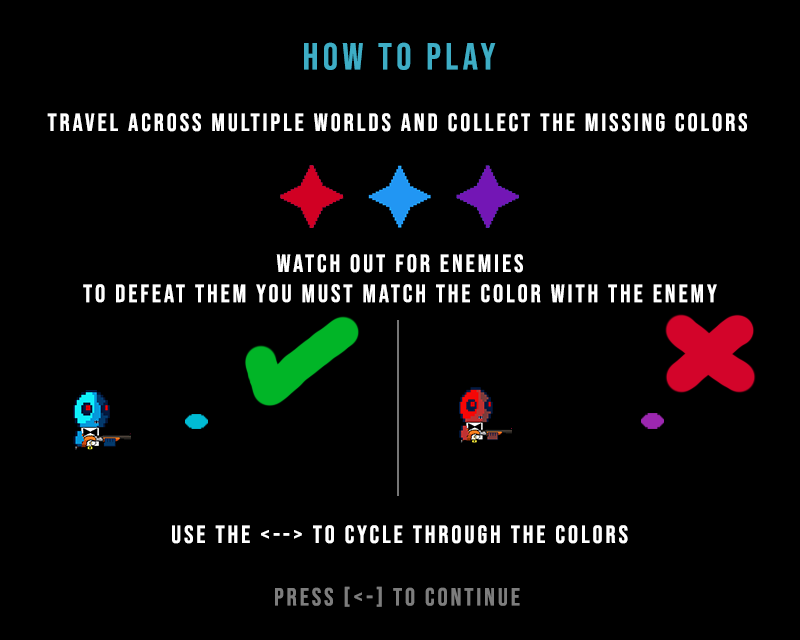
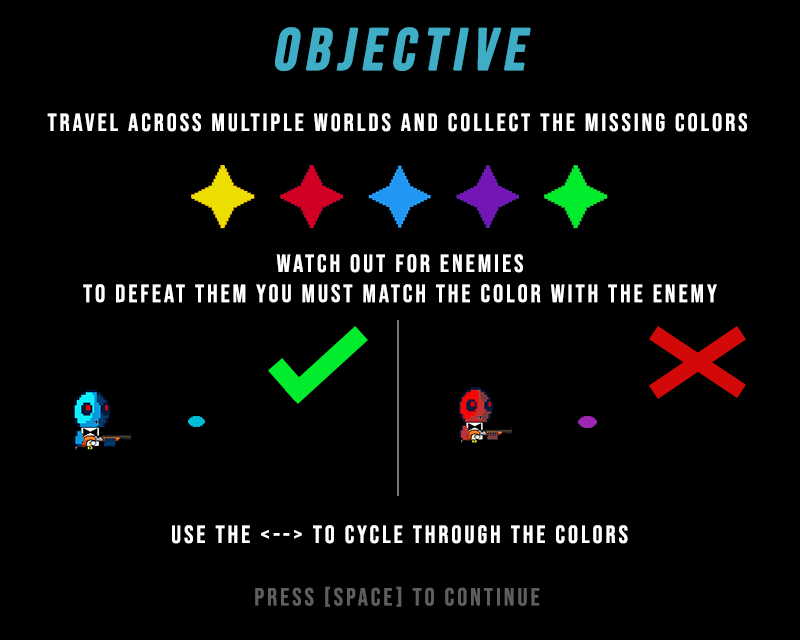
added title screens

diff --git a/src/scenes/Menu.js b/src/scenes/Menu.js
@@ -33,6 +33,8 @@ class Menu extends Phaser.Scene {
         this.load.spritesheet('enemy2', './assets/purpleDrone.png', {frameWidth: 108, frameHeight: 88, startFrame: 0, endFrame: 4});
         this.load.spritesheet('enemy3', './assets/redDrone.png', {frameWidth: 108, frameHeight: 88, startFrame: 0, endFrame: 4});
         this.load.spritesheet('enemy4', './assets/greenDrone.png', {frameWidth: 108, frameHeight: 88, startFrame: 0, endFrame: 4});
+
+        this.load.image('title', './assets/Title.png');
     }
 
     create() {
@@ -133,7 +135,9 @@ class Menu extends Phaser.Scene {
     this.add.text(config.width/2, config.height/2 + borderUISize + borderPadding, 'Press ← to Play', menuConfig).setOrigin(0.5);
     this.add.text(config.width/2, config.height/2 + borderUISize + borderPadding +32, 'Press (T) to play the Tutorial', menuConfig).setOrigin(0.5);
     this.add.text(config.width/2, config.height/2 + borderUISize + borderPadding +64, 'Press (R) to see credit', menuConfig).setOrigin(0.5);
+    this.add.image(0,0, 'title', 0).setOrigin(0,0);
     // define keys
+    keySPACE = this.input.keyboard.addKey(Phaser.Input.Keyboard.KeyCodes.SPACE);
     keyLEFT = this.input.keyboard.addKey(Phaser.Input.Keyboard.KeyCodes.LEFT);
     keyRIGHT = this.input.keyboard.addKey(Phaser.Input.Keyboard.KeyCodes.RIGHT);
     keyT = this.input.keyboard.addKey(Phaser.Input.Keyboard.KeyCodes.T);
@@ -141,7 +145,7 @@ class Menu extends Phaser.Scene {
     }
 
     update() {
-        if (Phaser.Input.Keyboard.JustDown(keyLEFT)) {
+        if (Phaser.Input.Keyboard.JustDown(keySPACE)) {
             this.menu_music.stop();
             this.scene.start('instructionsScene');
         }

diff --git a/src/scenes/Instructions.js b/src/scenes/Instructions.js
@@ -9,11 +9,11 @@ class Instructions extends Phaser.Scene {
 
     create() {
         this.add.image(0,0, 'background', 0).setOrigin(0,0);
-        keyLEFT = this.input.keyboard.addKey(Phaser.Input.Keyboard.KeyCodes.LEFT);
+        keySPACE = this.input.keyboard.addKey(Phaser.Input.Keyboard.KeyCodes.SPACE);
     }
 
     update() {
-        if(Phaser.Input.Keyboard.JustDown(keyLEFT)) {
+        if(Phaser.Input.Keyboard.JustDown(keySPACE)) {
             this.scene.start('hubScene');
         }
     }
